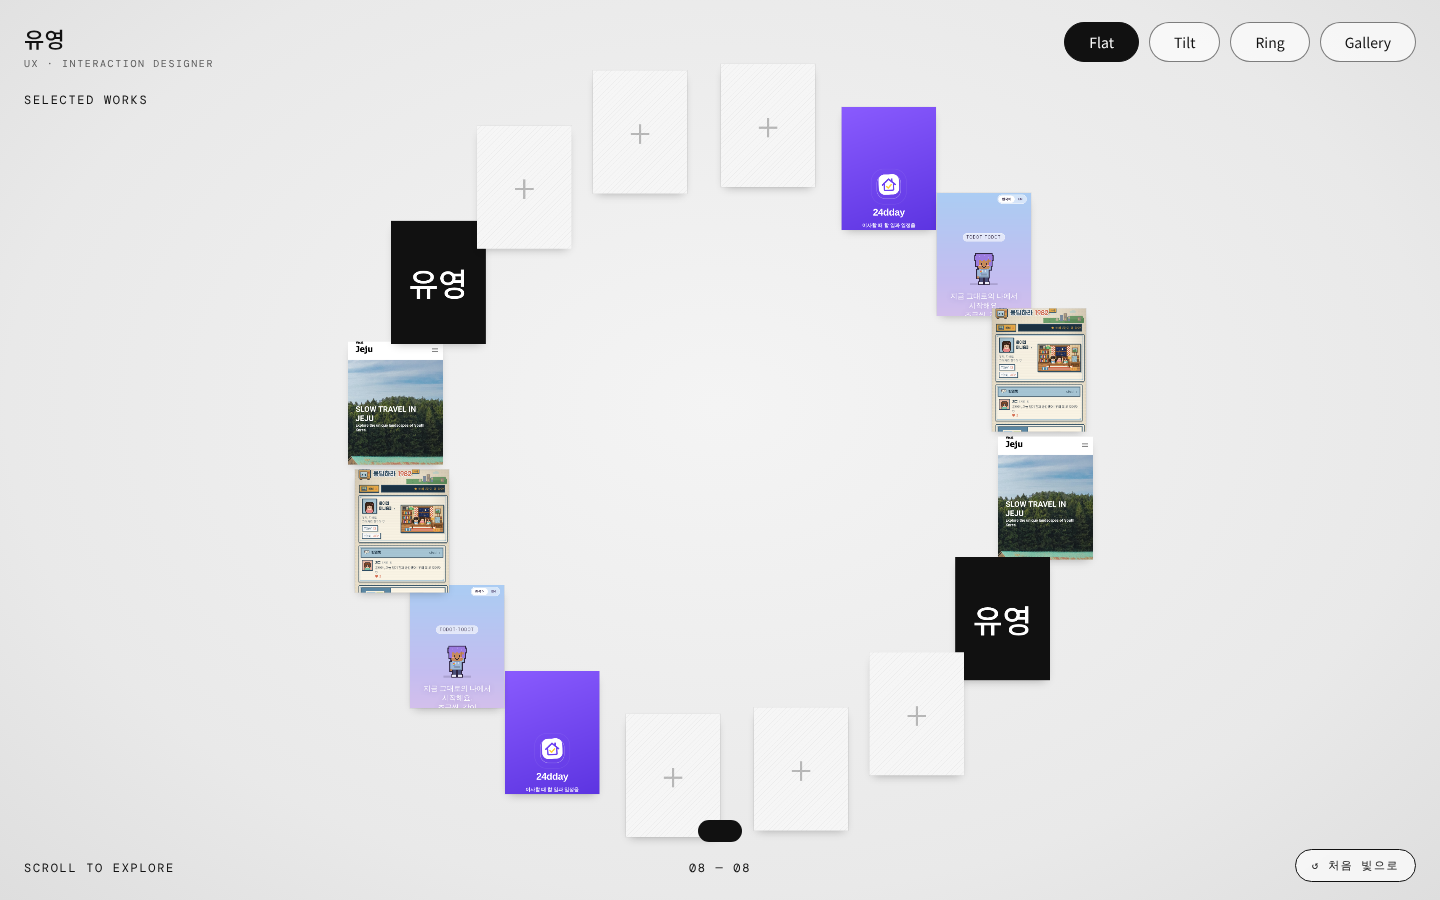
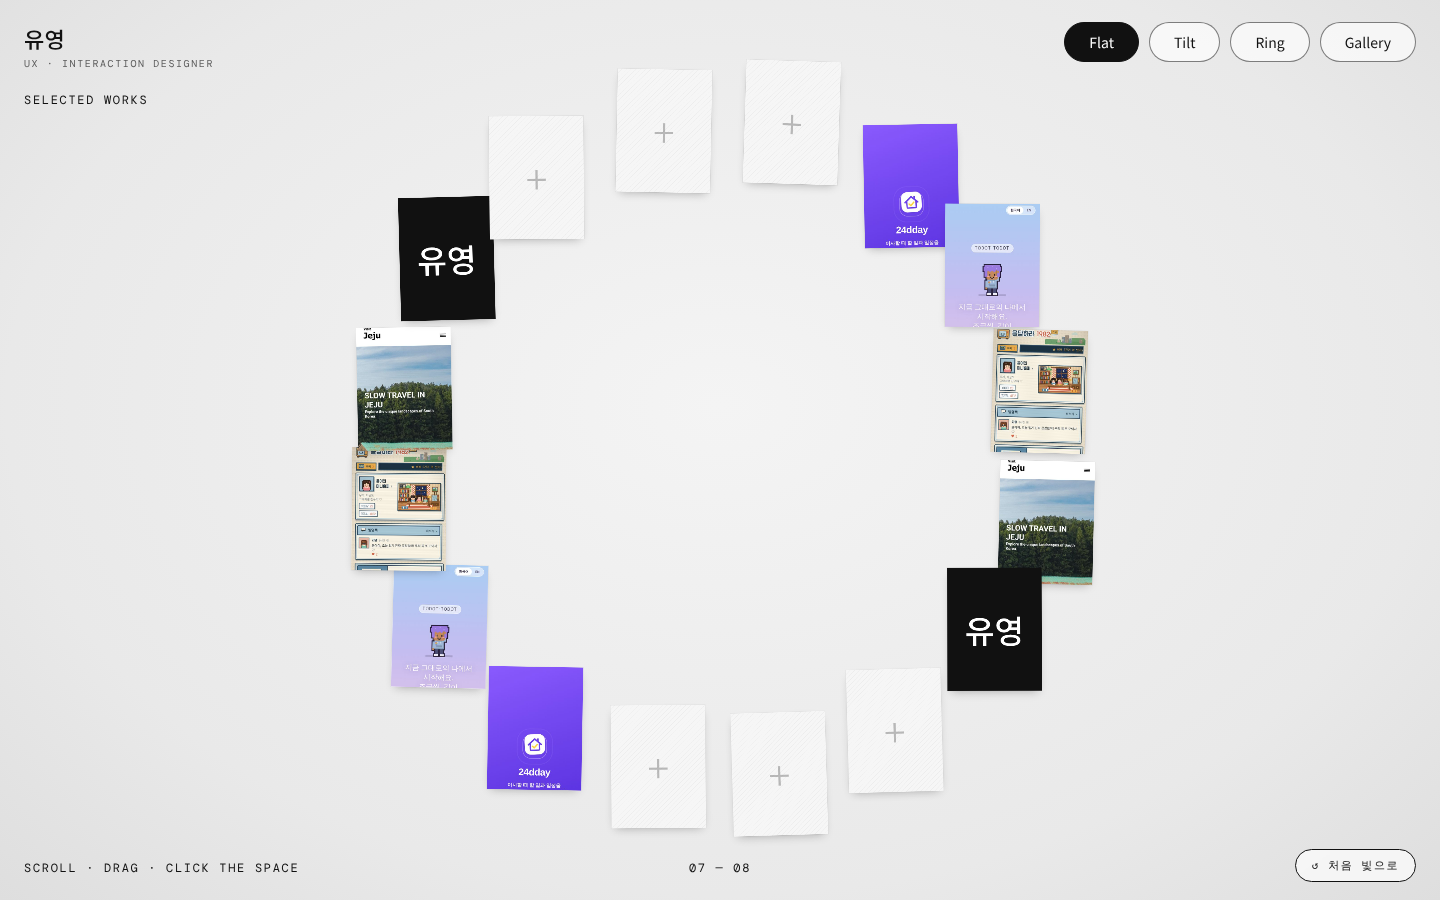
Concept F main: slower idle spin, 2x faster interactions, floating/push/burst/spring motion
Claude-Session: https://claude.ai/code/session_019EsNdEYWoL1QWvSZMnNwmU

diff --git a/concept-f.html b/concept-f.html
@@ -54,7 +54,7 @@ button{font:inherit;color:inherit;background:none;border:0;cursor:pointer}
 .rc.empty{cursor:default;background:repeating-linear-gradient(135deg,#0000 0 7px,#0000000a 7px 8px),#f6f6f6;display:flex;align-items:center;justify-content:center;color:#00000040;font-family:var(--disp);font-weight:200}
 .rc:focus-visible{outline:2px solid #111;outline-offset:3px}
 #ctr{position:absolute;left:50%;top:50%;transform:translate(-50%,-50%);text-align:center;pointer-events:none;width:min(46vmin,420px);transition:opacity .35s}
-#ctr{z-index:6}
+#ctr{z-index:6;opacity:0}
 #ctr:not([data-m=flat]){left:50%;top:auto;bottom:calc(58px + env(safe-area-inset-bottom,0px));transform:translateX(-50%);width:auto;white-space:nowrap;background:#111;color:#fff;padding:10px 22px 12px;border-radius:99px;display:flex;align-items:baseline;gap:12px}
 #ctr:not([data-m=flat]) small{margin:0;color:#ffffffb0}
 #ctr:not([data-m=flat]) b{font-size:22px;font-weight:300;color:#fff;letter-spacing:0}
@@ -126,7 +126,7 @@ button{font:inherit;color:inherit;background:none;border:0;cursor:pointer}
   <div id="stagewrap"><div id="ring"></div></div>
   <div id="ctr" aria-live="polite"></div>
   <div id="modes" role="group" aria-label="보기 방식"><button data-m="flat" aria-pressed="true">Flat</button><button data-m="tilt" aria-pressed="false">Tilt</button><button data-m="ring" aria-pressed="false">Ring</button><button data-m="gallery" aria-pressed="false">Gallery</button></div>
-  <div id="lbl">Selected Works</div><div id="hintS">Scroll to explore</div><div id="count">01 — 08</div>
+  <div id="lbl">Selected Works</div><div id="hintS">Scroll · drag · click the space</div><div id="count">01 — 08</div>
 </section>
 <div id="cap" class="mono" hidden></div>
 <button id="again" class="mono" hidden>↺ 처음 빛으로</button>
@@ -182,7 +182,7 @@ function fill(i){const p=P[i],has=!!PROTO[p.k],c=$('#card');cardOpen=i;
 function openCard(i,el){if(cardOpen>=0)return;sfxPop();fill(i);const c=$('#card'),L=$('#cardlayer');$('#veil').classList.add('on');L.classList.add('on');c.classList.add('on');
   const r=el.getBoundingClientRect(),f=c.getBoundingClientRect();
   $('#veil').onclick=closeCard;
-  if(!RM)c.animate([{transform:`translate(${r.left+r.width/2-(f.left+f.width/2)}px,${r.top+r.height/2-(f.top+f.height/2)}px) scale(${r.width/f.width},${r.height/f.height})`,borderRadius:'10px',opacity:.2},{transform:'none',borderRadius:'22px',opacity:1}],{duration:650,easing:'cubic-bezier(.3,1,.4,1)'});
+  if(!RM)c.animate([{transform:`translate(${r.left+r.width/2-(f.left+f.width/2)}px,${r.top+r.height/2-(f.top+f.height/2)}px) scale(${r.width/f.width},${r.height/f.height})`,borderRadius:'10px',opacity:.2},{transform:'none',borderRadius:'22px',opacity:1}],{duration:330,easing:'cubic-bezier(.3,1,.4,1)'});
   }
 function closeCard(){if(cardOpen<0)return;const c=$('#card');c.classList.remove('on');$('#cardlayer').classList.remove('on');$('#veil').classList.remove('on');cardOpen=-1;c.innerHTML='';}
 function swap(d){const n=(cardOpen+d+P.length)%P.length;const c=$('#card');c.animate([{opacity:1,transform:'translateX(0)'},{opacity:0,transform:`translateX(${-d*40}px)`}],{duration:160}).onfinish=()=>{fill(n);c.animate([{opacity:0,transform:`translateX(${d*40}px)`},{opacity:1,transform:'none'}],{duration:220})}}
@@ -226,7 +226,7 @@ ITEMS.concat(ITEMS).forEach((it,i)=>{const el=document.createElement(it?'button'
   if(it){const p=P[it.pi];el.setAttribute('aria-label',p.t);el.innerHTML=p.about?'<span class="ab">유영</span>':`<img src="${COVERS[p.k]}" alt="">`;
     el.addEventListener('focus',enter);el.addEventListener('blur',leave);
     el.onclick=()=>{if(opening||cardOpen>=0)return;opening=true;   // the picked card rises first, then opens
-      const a=el.animate([{translate:'0 0',scale:'1'},{translate:'0 -46px',scale:'1.22'}],{duration:330,easing:'cubic-bezier(.2,.8,.2,1)',fill:'forwards'});
+      const a=el.animate([{translate:'0 0',scale:'1'},{translate:'0 -46px',scale:'1.22'}],{duration:170,easing:'cubic-bezier(.2,.8,.2,1)',fill:'forwards'});
       a.onfinish=()=>{openCard(it.pi,el);setTimeout(()=>{a.cancel();opening=false},700)}}}
   else el.innerHTML='<span class="pl">+</span>';
   ring.appendChild(el);cardEls.push(el);cur.push(null)});
@@ -246,24 +246,39 @@ function target(m,i,sp){const a=i/N*TAU+sp,port=W<H;
     return [X+S*.02,Y-S*.02,s*.074*S/CW*(port?1.2:1),(z/(R*Math.sin(ph))+1)/2,1]}
   const R=port?W*.6:Math.min(W*.5,H*.8),f=R*1.6,z=R*Math.cos(a),s=f/(f-z);   // gallery: a horizontal carousel seen level
   const cw=(port?W*.3:Math.min(W*.19,H*.33))/2.67;return [-R*Math.sin(a)*s*.78,-z*.03,s*cw/CW,(Math.cos(a)+1)/2,1]}
-$$('#modes button').forEach(b=>b.onclick=()=>{mode=b.dataset.m;$$('#modes button').forEach(x=>x.setAttribute('aria-pressed',x===b));showCtr()});
-addEventListener('wheel',e=>{if(scene!=='main'||cardOpen>=0)return;vel+=e.deltaY*.0009},{passive:true});
-$('#main').addEventListener('pointerdown',e=>{if(e.target.closest('.rc,#modes,#again'))return;dragX=e.clientX});
-addEventListener('pointermove',e=>{if(dragX==null)return;vel+=(e.clientX-dragX)*.0016;dragX=e.clientX});
+let prevMode='flat',modeAt=-1e9;
+$$('#modes button').forEach(b=>b.onclick=()=>{if(b.dataset.m!==mode){prevMode=mode;modeAt=performance.now()}mode=b.dataset.m;$$('#modes button').forEach(x=>x.setAttribute('aria-pressed',x===b));showCtr()});
+addEventListener('wheel',e=>{if(scene!=='main'||cardOpen>=0)return;vel+=e.deltaY*.0018},{passive:true});
+$('#main').addEventListener('pointerdown',e=>{if(e.target.closest('.rc,#modes,#again'))return;dragX=e.clientX;burst={x:e.clientX-W/2,y:e.clientY-H/2}});
+let burst=null;
+addEventListener('pointermove',e=>{if(dragX==null)return;vel+=(e.clientX-dragX)*.0032;dragX=e.clientX});
 addEventListener('pointerup',()=>{dragX=null});
 addEventListener('keydown',e=>{if(scene!=='main'||cardOpen>=0)return;if(e.key==='ArrowRight')vel+=.3;if(e.key==='ArrowLeft')vel-=.3});
-const SPEED=.11;                                     // radians per second, clockwise, never stops
-function mainFrame(ms){const dt=Math.min(.1,(ms-lastT)/1000||0);lastT=ms;
-  const base=cardOpen>=0?SPEED*.15:(hovered>=0?SPEED*.3:SPEED);
-  spin+=(base+vel)*dt;vel*=Math.pow(.04,dt);
-  const k=1-Math.pow(.0006,dt),k2=1-Math.pow(.00002,dt);
-  cardEls.forEach((el,i)=>{const T=target(mode,i,spin);let c=cur[i];if(!c){c=cur[i]=T.slice()}
-    for(let j=0;j<5;j++)c[j]+=(T[j]-c[j])*k;
-    const tv=tiltv[i],on=hovEl===i?1:0;tv.rx+=(tv.trx-tv.rx)*k2;tv.ry+=(tv.try_-tv.ry)*k2;tv.h+=(on-tv.h)*k2;
-    const sc=c[2]*(1+tv.h*.1),lift=-tv.h*CH*c[2]*.07,rz=tv.h*(i%2?2.5:-2.5);
+const SPEED=.06;                                     // idle drift: slow, clockwise, never stops
+const sv=[];                                         // spring velocities per card
+function mainFrame(ms){const dt=Math.min(.05,(ms-lastT)/1000||0);lastT=ms;const tt=ms*.001;
+  const base=cardOpen>=0?SPEED*.2:(hovered>=0?SPEED*.35:SPEED);
+  spin+=(base+vel)*dt;vel*=Math.pow(.02,dt);
+  const kh=1-Math.pow(1e-9,dt);                      // hover response (2x faster)
+  const px=mx*W,py=my*H,PR=S*.27,PS=S*.085,calm=hovered>=0?.25:1;
+  cardEls.forEach((el,i)=>{const m=(ms-modeAt<i*26)?prevMode:mode;const T=target(m,i,spin);let c=cur[i];if(!c){c=cur[i]=T.slice()}
+    const v=sv[i]||(sv[i]=[0,0,0]);
+    // floating layout: every card drifts on its own little orbit
+    const fl=CW*T[2]*.06;T[0]+=Math.sin(tt*.7+i*1.7)*fl;T[1]+=Math.cos(tt*.55+i*2.3)*fl*1.2;
+    // playful push: cards lean away from the cursor
+    if(hovEl!==i&&cardOpen<0){const dx=c[0]-px,dy=c[1]-py,d=Math.hypot(dx,dy)||1;if(d<PR){const f=Math.pow(1-d/PR,2)*PS*calm;T[0]+=dx/d*f;T[1]+=dy/d*f}}
+    if(burst){const dx=c[0]-burst.x,dy=c[1]-burst.y,d=Math.hypot(dx,dy)||1,f=900*Math.exp(-d/(S*.45));v[0]+=dx/d*f;v[1]+=dy/d*f}
+    // springy motion (a little overshoot), twice as quick as before
+    for(let j=0;j<3;j++){v[j]+=(T[j]-c[j])*170*dt;v[j]*=Math.pow(1e-7,dt);c[j]+=v[j]*dt}
+    c[3]+=(T[3]-c[3])*kh;c[4]+=(T[4]-c[4])*kh;
+    const tv=tiltv[i],on=hovEl===i?1:0;tv.rx+=(tv.trx-tv.rx)*kh;tv.ry+=(tv.try_-tv.ry)*kh;tv.h+=(on-tv.h)*kh;
+    const sc=Math.max(.02,c[2])*(1+tv.h*.12),lift=-tv.h*CH*c[2]*.08;
+    const lean=Math.max(-14,Math.min(14,v[0]*.012));                       // cards lean into their own movement
+    const rz=tv.h*(i%2?3:-3)+Math.sin(tt*.45+i)*1.6*(1-tv.h)+lean;
     el.style.transform=`translate(${c[0].toFixed(1)}px,${(c[1]+lift).toFixed(1)}px) perspective(700px) rotateX(${tv.rx.toFixed(2)}deg) rotateY(${tv.ry.toFixed(2)}deg) rotateZ(${rz.toFixed(2)}deg) scale(${sc.toFixed(3)})`;
-    el.style.opacity=c[4].toFixed(2);el.style.zIndex=Math.round(c[3]*1000)+(on?2000:0);el.style.visibility=c[4]<.03?'hidden':'visible';
+    el.style.opacity=Math.max(0,Math.min(1,c[4])).toFixed(2);el.style.zIndex=Math.round(c[3]*1000)+(on?2000:0);el.style.visibility=c[4]<.03?'hidden':'visible';
     el.style.boxShadow=`0 ${(10+tv.h*18).toFixed(0)}px ${(22+tv.h*30).toFixed(0)}px -10px rgba(0,0,0,${(.3+tv.h*.2).toFixed(2)}),0 0 0 1px #0000000d`});
+  burst=null;
   const idx=((Math.round(-spin/(TAU/N))%N)+N)%N%UNIQ+1;$('#count').textContent='0'+idx+' — 0'+UNIQ}
 (function loop(t){if(scene==='onb')onbFrame(t);else mainFrame(t);requestAnimationFrame(loop)})(0);
 window.__set=v=>{tp=p=v};window.__main=()=>{busy=true;$('#onb').style.display='none';$('#onbtxt').style.display='none';scene='main';$('#main').classList.add('on');$('#again').hidden=false;layout()};

diff --git a/docs/yuyoung-light-and-neon.html b/docs/yuyoung-light-and-neon.html
@@ -54,7 +54,7 @@ button{font:inherit;color:inherit;background:none;border:0;cursor:pointer}
 .rc.empty{cursor:default;background:repeating-linear-gradient(135deg,#0000 0 7px,#0000000a 7px 8px),#f6f6f6;display:flex;align-items:center;justify-content:center;color:#00000040;font-family:var(--disp);font-weight:200}
 .rc:focus-visible{outline:2px solid #111;outline-offset:3px}
 #ctr{position:absolute;left:50%;top:50%;transform:translate(-50%,-50%);text-align:center;pointer-events:none;width:min(46vmin,420px);transition:opacity .35s}
-#ctr{z-index:6}
+#ctr{z-index:6;opacity:0}
 #ctr:not([data-m=flat]){left:50%;top:auto;bottom:calc(58px + env(safe-area-inset-bottom,0px));transform:translateX(-50%);width:auto;white-space:nowrap;background:#111;color:#fff;padding:10px 22px 12px;border-radius:99px;display:flex;align-items:baseline;gap:12px}
 #ctr:not([data-m=flat]) small{margin:0;color:#ffffffb0}
 #ctr:not([data-m=flat]) b{font-size:22px;font-weight:300;color:#fff;letter-spacing:0}
@@ -126,7 +126,7 @@ button{font:inherit;color:inherit;background:none;border:0;cursor:pointer}
   <div id="stagewrap"><div id="ring"></div></div>
   <div id="ctr" aria-live="polite"></div>
   <div id="modes" role="group" aria-label="보기 방식"><button data-m="flat" aria-pressed="true">Flat</button><button data-m="tilt" aria-pressed="false">Tilt</button><button data-m="ring" aria-pressed="false">Ring</button><button data-m="gallery" aria-pressed="false">Gallery</button></div>
-  <div id="lbl">Selected Works</div><div id="hintS">Scroll to explore</div><div id="count">01 — 08</div>
+  <div id="lbl">Selected Works</div><div id="hintS">Scroll · drag · click the space</div><div id="count">01 — 08</div>
 </section>
 <div id="cap" class="mono" hidden></div>
 <button id="again" class="mono" hidden>↺ 처음 빛으로</button>
@@ -183,7 +183,7 @@ function fill(i){const p=P[i],has=!!PROTO[p.k],c=$('#card');cardOpen=i;
 function openCard(i,el){if(cardOpen>=0)return;sfxPop();fill(i);const c=$('#card'),L=$('#cardlayer');$('#veil').classList.add('on');L.classList.add('on');c.classList.add('on');
   const r=el.getBoundingClientRect(),f=c.getBoundingClientRect();
   $('#veil').onclick=closeCard;
-  if(!RM)c.animate([{transform:`translate(${r.left+r.width/2-(f.left+f.width/2)}px,${r.top+r.height/2-(f.top+f.height/2)}px) scale(${r.width/f.width},${r.height/f.height})`,borderRadius:'10px',opacity:.2},{transform:'none',borderRadius:'22px',opacity:1}],{duration:650,easing:'cubic-bezier(.3,1,.4,1)'});
+  if(!RM)c.animate([{transform:`translate(${r.left+r.width/2-(f.left+f.width/2)}px,${r.top+r.height/2-(f.top+f.height/2)}px) scale(${r.width/f.width},${r.height/f.height})`,borderRadius:'10px',opacity:.2},{transform:'none',borderRadius:'22px',opacity:1}],{duration:330,easing:'cubic-bezier(.3,1,.4,1)'});
   }
 function closeCard(){if(cardOpen<0)return;const c=$('#card');c.classList.remove('on');$('#cardlayer').classList.remove('on');$('#veil').classList.remove('on');cardOpen=-1;c.innerHTML='';}
 function swap(d){const n=(cardOpen+d+P.length)%P.length;const c=$('#card');c.animate([{opacity:1,transform:'translateX(0)'},{opacity:0,transform:`translateX(${-d*40}px)`}],{duration:160}).onfinish=()=>{fill(n);c.animate([{opacity:0,transform:`translateX(${d*40}px)`},{opacity:1,transform:'none'}],{duration:220})}}
@@ -227,7 +227,7 @@ ITEMS.concat(ITEMS).forEach((it,i)=>{const el=document.createElement(it?'button'
   if(it){const p=P[it.pi];el.setAttribute('aria-label',p.t);el.innerHTML=p.about?'<span class="ab">유영</span>':`<img src="${COVERS[p.k]}" alt="">`;
     el.addEventListener('focus',enter);el.addEventListener('blur',leave);
     el.onclick=()=>{if(opening||cardOpen>=0)return;opening=true;   // the picked card rises first, then opens
-      const a=el.animate([{translate:'0 0',scale:'1'},{translate:'0 -46px',scale:'1.22'}],{duration:330,easing:'cubic-bezier(.2,.8,.2,1)',fill:'forwards'});
+      const a=el.animate([{translate:'0 0',scale:'1'},{translate:'0 -46px',scale:'1.22'}],{duration:170,easing:'cubic-bezier(.2,.8,.2,1)',fill:'forwards'});
       a.onfinish=()=>{openCard(it.pi,el);setTimeout(()=>{a.cancel();opening=false},700)}}}
   else el.innerHTML='<span class="pl">+</span>';
   ring.appendChild(el);cardEls.push(el);cur.push(null)});
@@ -247,24 +247,39 @@ function target(m,i,sp){const a=i/N*TAU+sp,port=W<H;
     return [X+S*.02,Y-S*.02,s*.074*S/CW*(port?1.2:1),(z/(R*Math.sin(ph))+1)/2,1]}
   const R=port?W*.6:Math.min(W*.5,H*.8),f=R*1.6,z=R*Math.cos(a),s=f/(f-z);   // gallery: a horizontal carousel seen level
   const cw=(port?W*.3:Math.min(W*.19,H*.33))/2.67;return [-R*Math.sin(a)*s*.78,-z*.03,s*cw/CW,(Math.cos(a)+1)/2,1]}
-$$('#modes button').forEach(b=>b.onclick=()=>{mode=b.dataset.m;$$('#modes button').forEach(x=>x.setAttribute('aria-pressed',x===b));showCtr()});
-addEventListener('wheel',e=>{if(scene!=='main'||cardOpen>=0)return;vel+=e.deltaY*.0009},{passive:true});
-$('#main').addEventListener('pointerdown',e=>{if(e.target.closest('.rc,#modes,#again'))return;dragX=e.clientX});
-addEventListener('pointermove',e=>{if(dragX==null)return;vel+=(e.clientX-dragX)*.0016;dragX=e.clientX});
+let prevMode='flat',modeAt=-1e9;
+$$('#modes button').forEach(b=>b.onclick=()=>{if(b.dataset.m!==mode){prevMode=mode;modeAt=performance.now()}mode=b.dataset.m;$$('#modes button').forEach(x=>x.setAttribute('aria-pressed',x===b));showCtr()});
+addEventListener('wheel',e=>{if(scene!=='main'||cardOpen>=0)return;vel+=e.deltaY*.0018},{passive:true});
+$('#main').addEventListener('pointerdown',e=>{if(e.target.closest('.rc,#modes,#again'))return;dragX=e.clientX;burst={x:e.clientX-W/2,y:e.clientY-H/2}});
+let burst=null;
+addEventListener('pointermove',e=>{if(dragX==null)return;vel+=(e.clientX-dragX)*.0032;dragX=e.clientX});
 addEventListener('pointerup',()=>{dragX=null});
 addEventListener('keydown',e=>{if(scene!=='main'||cardOpen>=0)return;if(e.key==='ArrowRight')vel+=.3;if(e.key==='ArrowLeft')vel-=.3});
-const SPEED=.11;                                     // radians per second, clockwise, never stops
-function mainFrame(ms){const dt=Math.min(.1,(ms-lastT)/1000||0);lastT=ms;
-  const base=cardOpen>=0?SPEED*.15:(hovered>=0?SPEED*.3:SPEED);
-  spin+=(base+vel)*dt;vel*=Math.pow(.04,dt);
-  const k=1-Math.pow(.0006,dt),k2=1-Math.pow(.00002,dt);
-  cardEls.forEach((el,i)=>{const T=target(mode,i,spin);let c=cur[i];if(!c){c=cur[i]=T.slice()}
-    for(let j=0;j<5;j++)c[j]+=(T[j]-c[j])*k;
-    const tv=tiltv[i],on=hovEl===i?1:0;tv.rx+=(tv.trx-tv.rx)*k2;tv.ry+=(tv.try_-tv.ry)*k2;tv.h+=(on-tv.h)*k2;
-    const sc=c[2]*(1+tv.h*.1),lift=-tv.h*CH*c[2]*.07,rz=tv.h*(i%2?2.5:-2.5);
+const SPEED=.06;                                     // idle drift: slow, clockwise, never stops
+const sv=[];                                         // spring velocities per card
+function mainFrame(ms){const dt=Math.min(.05,(ms-lastT)/1000||0);lastT=ms;const tt=ms*.001;
+  const base=cardOpen>=0?SPEED*.2:(hovered>=0?SPEED*.35:SPEED);
+  spin+=(base+vel)*dt;vel*=Math.pow(.02,dt);
+  const kh=1-Math.pow(1e-9,dt);                      // hover response (2x faster)
+  const px=mx*W,py=my*H,PR=S*.27,PS=S*.085,calm=hovered>=0?.25:1;
+  cardEls.forEach((el,i)=>{const m=(ms-modeAt<i*26)?prevMode:mode;const T=target(m,i,spin);let c=cur[i];if(!c){c=cur[i]=T.slice()}
+    const v=sv[i]||(sv[i]=[0,0,0]);
+    // floating layout: every card drifts on its own little orbit
+    const fl=CW*T[2]*.06;T[0]+=Math.sin(tt*.7+i*1.7)*fl;T[1]+=Math.cos(tt*.55+i*2.3)*fl*1.2;
+    // playful push: cards lean away from the cursor
+    if(hovEl!==i&&cardOpen<0){const dx=c[0]-px,dy=c[1]-py,d=Math.hypot(dx,dy)||1;if(d<PR){const f=Math.pow(1-d/PR,2)*PS*calm;T[0]+=dx/d*f;T[1]+=dy/d*f}}
+    if(burst){const dx=c[0]-burst.x,dy=c[1]-burst.y,d=Math.hypot(dx,dy)||1,f=900*Math.exp(-d/(S*.45));v[0]+=dx/d*f;v[1]+=dy/d*f}
+    // springy motion (a little overshoot), twice as quick as before
+    for(let j=0;j<3;j++){v[j]+=(T[j]-c[j])*170*dt;v[j]*=Math.pow(1e-7,dt);c[j]+=v[j]*dt}
+    c[3]+=(T[3]-c[3])*kh;c[4]+=(T[4]-c[4])*kh;
+    const tv=tiltv[i],on=hovEl===i?1:0;tv.rx+=(tv.trx-tv.rx)*kh;tv.ry+=(tv.try_-tv.ry)*kh;tv.h+=(on-tv.h)*kh;
+    const sc=Math.max(.02,c[2])*(1+tv.h*.12),lift=-tv.h*CH*c[2]*.08;
+    const lean=Math.max(-14,Math.min(14,v[0]*.012));                       // cards lean into their own movement
+    const rz=tv.h*(i%2?3:-3)+Math.sin(tt*.45+i)*1.6*(1-tv.h)+lean;
     el.style.transform=`translate(${c[0].toFixed(1)}px,${(c[1]+lift).toFixed(1)}px) perspective(700px) rotateX(${tv.rx.toFixed(2)}deg) rotateY(${tv.ry.toFixed(2)}deg) rotateZ(${rz.toFixed(2)}deg) scale(${sc.toFixed(3)})`;
-    el.style.opacity=c[4].toFixed(2);el.style.zIndex=Math.round(c[3]*1000)+(on?2000:0);el.style.visibility=c[4]<.03?'hidden':'visible';
+    el.style.opacity=Math.max(0,Math.min(1,c[4])).toFixed(2);el.style.zIndex=Math.round(c[3]*1000)+(on?2000:0);el.style.visibility=c[4]<.03?'hidden':'visible';
     el.style.boxShadow=`0 ${(10+tv.h*18).toFixed(0)}px ${(22+tv.h*30).toFixed(0)}px -10px rgba(0,0,0,${(.3+tv.h*.2).toFixed(2)}),0 0 0 1px #0000000d`});
+  burst=null;
   const idx=((Math.round(-spin/(TAU/N))%N)+N)%N%UNIQ+1;$('#count').textContent='0'+idx+' — 0'+UNIQ}
 (function loop(t){if(scene==='onb')onbFrame(t);else mainFrame(t);requestAnimationFrame(loop)})(0);
 window.__set=v=>{tp=p=v};window.__main=()=>{busy=true;$('#onb').style.display='none';$('#onbtxt').style.display='none';scene='main';$('#main').classList.add('on');$('#again').hidden=false;layout()};

diff --git a/docs/brief.md b/docs/brief.md
@@ -123,3 +123,8 @@ UX/UI 디자이너 채용. 형식은 뮤직비디오, 내용은 UX/UI 역량.
 - Pinterest 레퍼런스 영상(27초)을 받아 프레임 단위로 확인(네트워크 허용: kr.pinterest.com, www.pinterest.com, v1.pinimg.com, i.pinimg.com).
 - Flat: 정면 원 / Tilt: 훨씬 큰 원의 윗부분만 화면을 가로지름(카드 크게, 아치) / Ring: 원을 눕히고 기울임(왼쪽 위 멀고 작게, 오른쪽 아래 가깝고 크게) / Gallery: 수평 회전목마(앞 카드 크게, 뒤 카드 작게 사이로 보임).
 - 모든 보기에서 시계 방향으로 계속 회전(초당 0.11rad). 마우스를 올리면 느려지되 멈추지 않음. 카드는 마우스 위치에 따라 3D로 기울고 살짝 떠오름. 클릭하면 카드가 위로 올라온 뒤 프로젝트 상세 카드로 커짐.
+
+## 컨셉 F 메인 v6 — 느린 회전 + 2배 빠른 인터랙션 + 장난스러운 움직임 (2026-11-13)
+- 요청: 회전은 더 느리게, 인터랙션은 2배 빠르게, "experimental portfolio: interactive galleries, floating layouts, playful motion" 느낌 최대한.
+- 회전 0.11 → 0.06 rad/s. 보기 전환·호버·카드 열기·스크롤 반응 약 2배 빠르게.
+- 추가: 카드마다 둥둥 떠다님(floating), 커서를 피해 밀려남(push), 빈 곳 클릭 시 카드가 튕겨 나갔다 돌아옴(burst), 스프링 반동, 움직이는 방향으로 기울어짐, 보기 전환 시 카드가 차례로 물결치며 이동.
